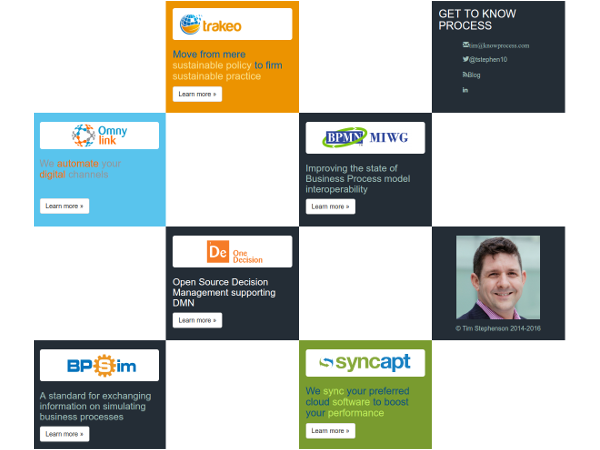
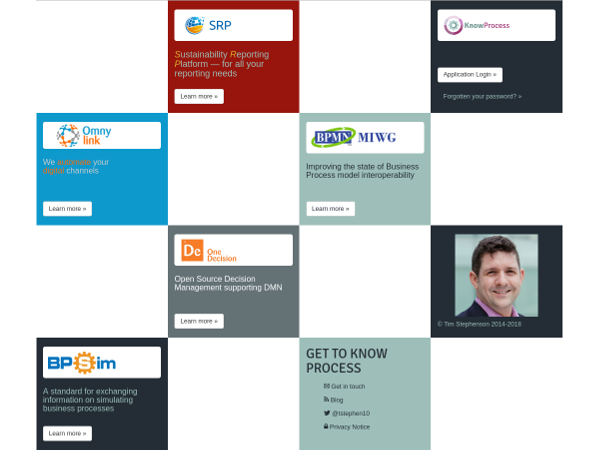
revise SRP tile, update theme meta-data

diff --git a/wp-content/themes/knowprocess-2016/style.css b/wp-content/themes/knowprocess-2016/style.css
@@ -1,10 +1,9 @@
 /*
-Theme Name: BST
-Theme URI: http://simonpadbury.com
-Description: Bootstrap Starter Theme for WordPress. Using Twitter Bootstrap 3.3.5
-Author: Simon Padbury
-Author URI: http://simonpadbury.github.io
-Version: 2.7.1
+Theme Name: KnowProcess
+Description: KnowProcess. Based on BST 2.7.1 by Simon Padbury using Twitter Bootstrap 3.3.5
+Author: Tim Stephenson
+Author URI: http://github.com/tstephen
+Version: 3.0.0
 License: MIT License
 License URI: http://opensource.org/licenses/MIT
 */

diff --git a/wp-content/themes/knowprocess-2016/front-page.php b/wp-content/themes/knowprocess-2016/front-page.php
@@ -8,7 +8,7 @@
     <title><?php wp_title('•', true, 'right'); bloginfo('name'); ?></title>
     <link rel="icon" type="image/png" href="https://api.knowprocess.com/images/icon/knowprocess-icon-16x16.png">
     <link rel="shortcut icon" type="image/png" href="https://api.knowprocess.com/images/icon/knowprocess-icon-16x16.png">
-    <link rel="stylesheet" href="<?php echo get_template_directory_uri () ?>/css/icons/style.css">
+    <link rel="stylesheet" href="https://api.knowprocess.com/webjars/knowprocess-icons/3.0.0/style.css">
     <link href="<?php echo get_template_directory_uri () ?>/css/bootstrap.min.css" rel="stylesheet">
     <link href="<?php echo get_template_directory_uri () ?>/css/front-page.css" rel="stylesheet">
 
@@ -31,8 +31,8 @@
               <p> </p>
             </div><!--/span-->
             <div class="srp-tile tile col-xs-6 col-sm-4 col-md-4 col-lg-3">
-              <h2 class="has-img">Sustainable Resource Planning</h2>
-              <h3>Move from mere <em>sustainable policy</em> to firm <em>sustainable practice</em></h3>
+              <h2 class="has-img"><img src="<?php echo get_template_directory_uri () ?>/images/srp-logo.png" style="height:100%;"/></h2>
+              <h3><em>S</em>ustainability <em>R</em>eporting <em>P</em>latform &mdash; for all your reporting needs</h3>
               <p class="tile-bottom"><a class="btn btn-default" href="//srp.digital/" role="button">Learn more &raquo;</a></p>
             </div><!--/span-->
             <div class="tile hidden-xs col-sm-2 col-md-2 col-lg-3">
@@ -100,10 +100,11 @@
               <h2>Get to Know Process</h2>
               <p>
                 <ul style="line-height: 3rem; list-style:none">
-                  <li><a href="mailto:tim@knowprocess.com"><span class="glyphicon glyphicon-envelope"> tim@knowprocess.com</span></a></li>
-                  <li><a href="//www.twitter.com/knowprocess"><span class="kp-icon-twitter kp-glyph"> @tstephen10</span></a></li>
+                  <li><a href="/contact-us/"><span class="kp-icon-envelope kp-glyph"></span> Get in touch</a></li>
                   <li><a href="/blog"><span class="kp-icon-rss kp-glyph"></span> Blog</a></li>
-                  <li><a href="//www.linkedin.com/company/2819688?trk=tyah"><span class="kp-icon-linkedin kp-glyph"></span></a></li>
+                  <li><a href="//twitter.com/tstephen10"><span class="kp-icon-twitter kp-glyph"></span> @tstephen10</a></li>
+                  <!--li><a href="//www.linkedin.com/company/2819688?trk=tyah"><span class="kp-icon-linkedin kp-glyph"></span></a></li-->
+                  <li><a href="/privacy-notice/"><span class="kp-icon-lock kp-glyph"></span> Privacy Notice</a></li>
                 </ul>   
               </p>
             </div><!--/span-->
